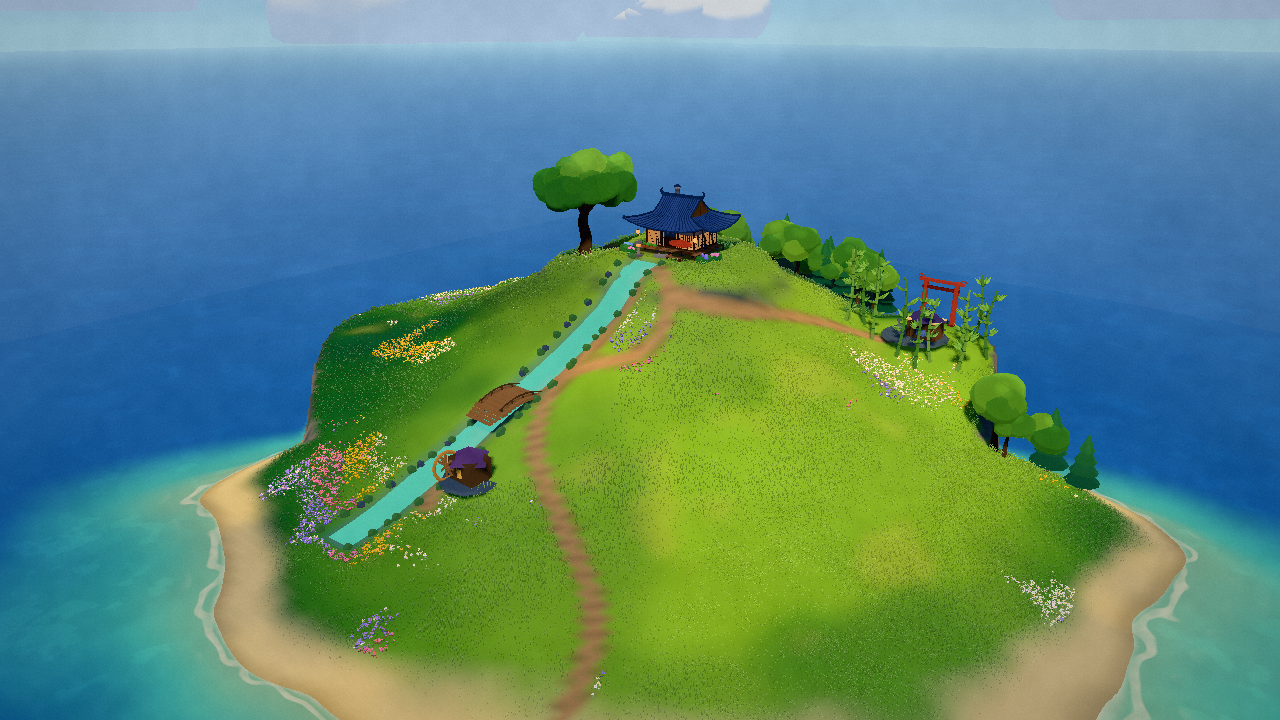
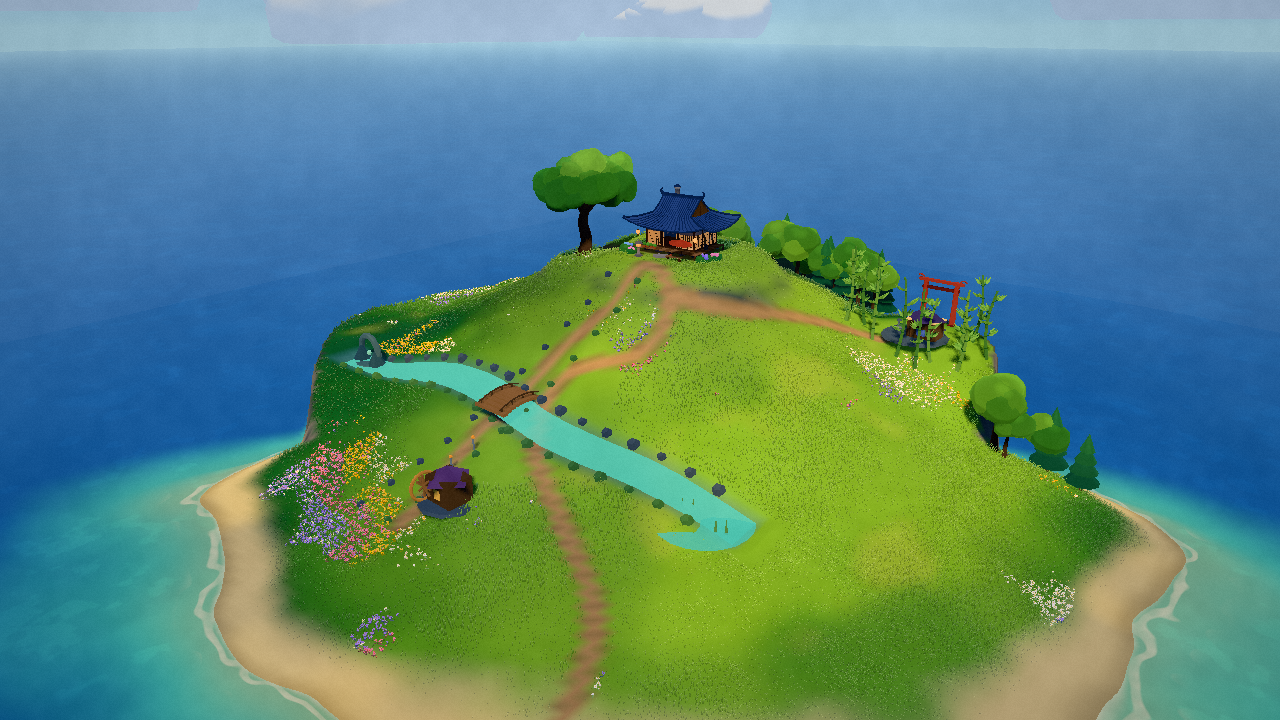
fix: make stream topology and bridge destination coherent

diff --git a/src/models/places.ts b/src/models/places.ts
@@ -178,10 +178,11 @@ function bridgeMesh(): THREE.Group {
 
 function streamRibbon(x: number, z: number, length: number, width: number): THREE.Mesh {
   const pts: [number, number][] = [];
-  const n = 18;
+  const n = 22;
   for (let i = 0; i < n; i++) {
-    const t = i / (n - 1), zz = z - length * 0.5 + t * length;
-    pts.push([x + Math.sin(t * Math.PI * 2.4) * 0.8, zz]);
+    const t = i / (n - 1), xx = x - length * 0.5 + t * length;
+    const zz = 24 + Math.sin((xx / 16) * Math.PI * 0.8) * 1.1;
+    pts.push([xx, zz]);
   }
   const water = ribbon(pts, width, 0.1, MAT.water);
   water.material = new THREE.MeshBasicMaterial({ color: '#70d6cf', transparent: true, opacity: 0.78, depthWrite: false, side: THREE.DoubleSide });
@@ -190,41 +191,61 @@ function streamRibbon(x: number, z: number, length: number, width: number): THRE
 
 export function createMoonbridge(): PlaceLandmark {
   const g = new THREE.Group(); const x = 2, z = 24, y = heightAt(x, z);
-  // A continuous ribbon leaves both bridge ends and bends toward visible banks.
-  g.add(streamRibbon(x, z, 46, 3.4));
-  // Two dark wet banks and thin moving-looking highlights give the water a channel, not a blue plane.
-  const bankLine = (side: number) => { const pts: [number, number][] = []; for (let i = 0; i < 18; i++) { const t = i / 17, zz = z - 23 + t * 46; pts.push([x + Math.sin((zz / 23) * Math.PI * 1.2) * 0.8 + side * 2.0, zz]); } return pts; };
-  g.add(ribbon(bankLine(-1), 0.72, 0.05, '#6f6958'));
-  g.add(ribbon(bankLine(1), 0.72, 0.05, '#6f6958'));
-  for (const off of [-0.75, 0.65]) { const pts: [number, number][] = []; for (let i = 0; i < 10; i++) { const t = i / 9; const zz = z - 20 + t * 40; pts.push([x + Math.sin((zz / 23) * Math.PI * 1.2) * 0.8 + off, zz]); } g.add(ribbon(pts, 0.045, 0.14, '#c3f0d3')); }
-  // banks: dark damp soil just outside water, then mossy stones sampled to the terrain
-  const bankPts: [number, number][] = [];
-  for (let i = 0; i < 18; i++) { const t = i / 17, zz = z - 23 + t * 46; bankPts.push([x - 2.5, zz]); bankPts.push([x + 2.5, zz]); }
-  for (const [bx, bz] of bankPts) put(g, new THREE.DodecahedronGeometry(0.52, 0), m(MAT.moss, 0.38), bx, heightAt(bx, bz) + 0.02, bz, 1.1);
-  const bridge = bridgeMesh(); bridge.position.set(x, y, z); g.add(bridge);
-  const rampMat = m('#a97a4f', 0.3);
-  for (const side of [-1, 1]) for (let i = 0; i < 4; i++) {
-    const t = i / 3, rz = z + side * (3.35 + i * 0.48), ry = y + 0.76 - t * 0.58;
-    put(g, new THREE.BoxGeometry(4.7 - i * 0.25, 0.18, 0.46), rampMat, x, ry, rz);
+  // East-west stream: it crosses the north-south footpath, so the bridge has a real purpose.
+  g.add(streamRibbon(x, z, 62, 3.6));
+  const bankLine = (side: number) => {
+    const pts: [number, number][] = [];
+    for (let i = 0; i < 22; i++) { const t = i / 21, xx = -29 + t * 62; pts.push([xx, 24 + Math.sin((xx / 16) * Math.PI * 0.8) * 1.1 + side * 2.0]); }
+    return pts;
+  };
+  g.add(ribbon(bankLine(-1), 0.75, 0.05, '#6f6958'));
+  g.add(ribbon(bankLine(1), 0.75, 0.05, '#6f6958'));
+  for (const off of [-0.75, 0.65]) {
+    const pts: [number, number][] = [];
+    for (let i = 0; i < 16; i++) { const t = i / 15, xx = -26 + t * 56; pts.push([xx, 24 + Math.sin((xx / 16) * Math.PI * 0.8) * 1.1 + off]); }
+    g.add(ribbon(pts, 0.045, 0.14, '#c3f0d3'));
   }
-  // path ribbons land on both ends and continue to the existing meadow paths
-  g.add(ribbon([[x, z - 14], [x - 0.3, z - 9], [x, z - 4]], 2.6, 0.06, '#a78561'));
-  g.add(ribbon([[x, z + 4], [x + 1.6, z + 10], [x + 5, z + 15]], 2.6, 0.06, '#a78561'));
+  // Stone bank armor, sampled to each bank's actual terrain.
+  for (const side of [-1, 1]) for (let i = 0; i < 18; i++) {
+    const xx = -28 + i * 3.3, zz = 24 + Math.sin((xx / 16) * Math.PI * 0.8) * 1.1 + side * 2.5;
+    put(g, new THREE.DodecahedronGeometry(0.5 + (i % 3) * 0.1, 0), m(side > 0 ? MAT.moss : MAT.stoneDark, 0.35), xx, heightAt(xx, zz) + 0.04, zz, 1.05);
+  }
+  // Bridge crosses the stream north-south.
+  const bridge = bridgeMesh(); bridge.position.set(x, y, z); g.add(bridge);
+  // Clear approaches south and north, with a continuation to the mill.
+  g.add(ribbon([[x, z - 16], [x, z - 10], [x, z - 4]], 2.8, 0.06, '#a78561'));
+  g.add(ribbon([[x, z + 4], [x + 0.4, z + 10], [x + 1.0, z + 18]], 2.8, 0.06, '#a78561'));
   for (const side of [-1, 1]) for (let i = -5; i <= 5; i++) {
     const rz = z + i * 3.7, rx = x + side * 2.4;
     put(g, new THREE.DodecahedronGeometry(0.46, 0), m(side > 0 ? MAT.moss : MAT.stoneDark, 0.35), rx, heightAt(rx, rz) + 0.04, rz, 1.05);
   }
-  // A small mill shed beyond the north landing gives the bridge a reason to exist.
-  const mill = new THREE.Group(); mill.position.set(x + 4.8, heightAt(x + 4.8, z + 10) + 0.12, z + 10);
-  put(g, new THREE.CylinderGeometry(3.0, 3.3, 0.22, 10), m(MAT.stoneDark, 0.25), x + 4.8, heightAt(x + 4.8, z + 10) + 0.11, z + 10);
-  put(mill, new THREE.BoxGeometry(3.4, 2.5, 2.8), m(MAT.bridgeDark, 0.3), 0, 1.25, 0);
-  put(mill, new THREE.ConeGeometry(2.5, 1.5, 4), m('#74566f', 0.35), 0, 2.95, 0);
-  put(mill, new THREE.BoxGeometry(0.8, 1.0, 0.08), m('#d9a85e', 0.5), 0, 0.9, 1.14);
-  put(mill, new THREE.CylinderGeometry(0.09, 0.09, 1.8, 8), m('#e6bf73', 0.45), -1.35, 1.2, 1.14);
-  put(mill, new THREE.SphereGeometry(0.18, 10, 8), m('#ffb35c', 0.6), -1.35, 2.15, 1.14);
-  const wheel = new THREE.Group(); wheel.position.set(-1.9, 1.45, 1.55);
+  // Source end: a spring grotto at the west bank, with a visible rock arch and pool.
+  const spring = new THREE.Group(); spring.position.set(-27, heightAt(-27, 24) + 0.1, 24);
+  put(spring, new THREE.CylinderGeometry(2.0, 2.4, 0.22, 10), m('#5b7770', 0.3), 0, 0.11, 0);
+  put(spring, new THREE.TorusGeometry(2.0, 0.42, 7, 12), m('#62786f', 0.35), 0, 1.7, 0);
+  put(spring, new THREE.ConeGeometry(1.3, 2.4, 7), m('#4b625d', 0.35), -1.7, 1.2, 0.2);
+  put(spring, new THREE.ConeGeometry(1.3, 2.4, 7), m('#4b625d', 0.35), 1.7, 1.2, 0.2);
+  put(spring, new THREE.SphereGeometry(0.32, 10, 8), m('#9fe2cf', 0.6), 0, 1.4, 0.15);
+  g.add(spring);
+  // Outlet end: a small pond with reeds and a footpath meeting the water.
+  const pond = new THREE.Group(); pond.position.set(29, heightAt(29, 24) + 0.05, 24);
+  const pondMat = new THREE.MeshBasicMaterial({ color: '#65c6c0', transparent: true, opacity: 0.8, side: THREE.DoubleSide });
+  const pondMesh = new THREE.Mesh(new THREE.CircleGeometry(5.0, 20), pondMat); pondMesh.rotation.x = -Math.PI / 2; pond.add(pondMesh);
+  for (const sx of [-2.8, -1.8, 1.9, 2.8]) { const r = new THREE.Mesh(new THREE.ConeGeometry(0.18, 1.7, 5), m('#719d60', 0.4)); r.position.set(sx, 0.7, Math.sin(sx) * 0.7); pond.add(r); }
+  g.add(pond);
+  // A pair of warm guide lanterns makes the north continuation legible even through the slope.
+  for (const zz of [z + 7, z + 10]) {
+    put(g, new THREE.CylinderGeometry(0.09, 0.12, 1.5, 7), m(MAT.stone, 0.3), x + 1.6, heightAt(x + 1.6, zz) + 0.75, zz);
+    put(g, new THREE.SphereGeometry(0.19, 8, 6), m('#ffb45e', 0.65), x + 1.6, heightAt(x + 1.6, zz) + 1.55, zz);
+  }
+  // Mill is beyond the north landing, so crossing and stream endpoint have different directions.
+  const mill = new THREE.Group(); mill.position.set(x + 5.2, heightAt(x + 5.2, z + 13) + 0.12, z + 13);
+  put(g, new THREE.CylinderGeometry(3.0, 3.3, 0.22, 10), m(MAT.stoneDark, 0.25), mill.position.x, mill.position.y - 0.1, mill.position.z);
+  put(mill, new THREE.BoxGeometry(3.6, 2.7, 3.0), m(MAT.bridgeDark, 0.3), 0, 1.35, 0);
+  put(mill, new THREE.ConeGeometry(2.6, 1.55, 4), m('#74566f', 0.35), 0, 3.05, 0);
+  put(mill, new THREE.BoxGeometry(0.9, 1.05, 0.08), m('#f0c36b', 0.55), 0, 1.15, 1.53);
+  const wheel = new THREE.Group(); wheel.position.set(-2.0, 1.45, 1.6);
   const disc = new THREE.Mesh(new THREE.TorusGeometry(1.5, 0.18, 7, 18), m('#d19b59', 0.4)); disc.rotation.y = Math.PI / 2; wheel.add(disc);
-  put(mill, new THREE.BoxGeometry(0.7, 1.0, 0.08), m('#f0c36b', 0.55), 0, 1.15, 1.43);
   for (let i = 0; i < 8; i++) { const paddle = put(wheel, new THREE.BoxGeometry(0.18, 2.45, 0.22), m(MAT.bridge, 0.25), 0, 0, 0); paddle.rotation.z = i * Math.PI / 4; }
   mill.add(wheel); g.add(mill);
   return { group: g, focus: new THREE.Vector3(x, y + 1.6, z), name: 'Moonbridge Stream' };

diff --git a/src/world/terrain.ts b/src/world/terrain.ts
@@ -24,7 +24,7 @@ const PATH_POINTS = [
   [36, 52], [30, 40], [19, 33], [9, 27], [5, 19], [11, 12], [9, 5], [3, 2],
 ].map(([x, z]) => new THREE.Vector3(x, 0, z));
 // Discovery paths: the teahouse junction branches to the stream and bamboo shrine.
-const BRIDGE_PATH_POINTS = [[3, 2], [5, 9], [5, 16], [2, 24], [2, 30], [4, 36], [6, 39]].map(([x, z]) => new THREE.Vector3(x, 0, z));
+const BRIDGE_PATH_POINTS = [[3, 2], [3, 9], [2, 16], [2, 24], [2, 30], [4, 36], [6, 42]].map(([x, z]) => new THREE.Vector3(x, 0, z));
 const SHRINE_PATH_POINTS = [[9, 5], [15, 1], [21, -8], [30, -20]].map(([x, z]) => new THREE.Vector3(x, 0, z));
 // Side path to the cliff lookout.
 const LOOKOUT_POINTS = [
@@ -46,8 +46,8 @@ export const LOOKOUT_PATH = sampleCurve(LOOKOUT_POINTS, 80);
 export const BRIDGE_PATH = sampleCurve(BRIDGE_PATH_POINTS, 130);
 export const SHRINE_PATH = sampleCurve(SHRINE_PATH_POINTS, 150);
 
-function streamCenter(z: number): number { return 2 + Math.sin((z / 23) * Math.PI * 1.2) * 0.8; }
-function streamDistance(x: number, z: number): number { return Math.abs(x - streamCenter(z)); }
+function streamCenterZ(x: number): number { return 24 + Math.sin((x / 16) * Math.PI * 0.8) * 1.1; }
+function streamDistance(x: number, z: number): number { return Math.abs(z - streamCenterZ(x)); }
 
 function distToPolyline(poly: Float32Array, x: number, z: number): number {
   let best = 1e9;
@@ -129,7 +129,7 @@ function bake() {
       pathDist[idx(i, j)] = pd;
       h -= 0.12 * smoothstep(1.6, 0.4, pd);
       // Carve a shallow, winding stream bed from the upper mill to the low meadow.
-      if (z > 0 && z < 48) h -= 0.72 * smoothstep(3.6, 0.35, streamDistance(x, z));
+      if (x > -32 && x < 34) h -= 0.72 * smoothstep(3.6, 0.35, streamDistance(x, z));
       heights[idx(i, j)] = h;
     }
   }
@@ -223,7 +223,7 @@ export function surfaceAt(x: number, z: number): { color: THREE.Color; kind: Sur
 
   // Stream bed: water colour and no grass inside the carved channel.
   const streamD = streamDistance(x, z);
-  if (z > 0 && z < 48 && streamD < 3.4) {
+  if (x > -32 && x < 34 && streamD < 3.4) {
     const waterT = smoothstep(3.4, 1.25, streamD);
     c.lerp(C.seabed, waterT * 0.7);
     grassiness *= 1 - waterT;

diff --git a/src/main.ts b/src/main.ts
@@ -241,7 +241,8 @@ const presets: Record<string, [THREE.Vector3, THREE.Vector3]> = {
   tip: [house.group.localToWorld(new THREE.Vector3(5.2, 3.6, 11.5)), house.group.localToWorld(new THREE.Vector3(5.6, 4.1, 4.6))],
   // high reveal camera: the shrine sits on the eastern shoulder; stay above the intervening ridge
   shrine: [new THREE.Vector3(shrine.focus.x + 10, shrine.focus.y + 6.5, shrine.focus.z - 17), new THREE.Vector3(shrine.focus.x + 0.4, shrine.focus.y + 2.4, shrine.focus.z - 1.2)],
-  bridge: [new THREE.Vector3(bridge.focus.x - 15, bridge.focus.y + 9, bridge.focus.z - 15), new THREE.Vector3(bridge.focus.x + 3.5, bridge.focus.y + 1.8, bridge.focus.z + 10)],
+  bridge: [new THREE.Vector3(bridge.focus.x - 13, bridge.focus.y + 8, bridge.focus.z - 16), new THREE.Vector3(bridge.focus.x + 3.5, bridge.focus.y + 1.8, bridge.focus.z + 7)],
+  bridgeMap: [new THREE.Vector3(bridge.focus.x, bridge.focus.y + 58, bridge.focus.z + 2), new THREE.Vector3(bridge.focus.x, bridge.focus.y, bridge.focus.z)],
 };
 HERO_TREE.y = heightAt(HERO_TREE.x, HERO_TREE.z);
 presets.tree = [new THREE.Vector3(HERO_TREE.x + 13, HERO_TREE.y + 3, HERO_TREE.z + 17), new THREE.Vector3(HERO_TREE.x - 4, HERO_TREE.y + 5.5, HERO_TREE.z - 2)];

diff --git a/src/world/grass.ts b/src/world/grass.ts
@@ -50,11 +50,10 @@ export function createGrass(count = 140000, radius = 78) {
     const surf = surfaceAt(x, z);
     // authored clearings keep the shrine/bridge silhouettes readable from their reveal shots
     const shrineClear = Math.hypot(x - 30, z + 20) < 9;
-    const bridgeClear = Math.hypot(x - 2, z - 24) < 12;
+    const bridgeClear = Math.hypot(x - 2, z - 24) < 12 || (x > -1 && x < 8 && z > 27 && z < 40);
     // reserve the stream's full visual corridor; the banks will be authored geometry
-    const streamZ = z - 24;
-    const streamCentre = 2 + Math.sin((streamZ / 23) * Math.PI * 1.2) * 0.8;
-    const streamClear = z > 0 && z < 48 && Math.abs(x - streamCentre) < 3.1;
+    const streamCentre = 24 + Math.sin((x / 16) * Math.PI * 0.8) * 1.1;
+    const streamClear = x > -34 && x < 36 && Math.abs(z - streamCentre) < 3.1;
     if (shrineClear || bridgeClear || streamClear) continue;
     // clumpy density: meadows have thick and thin patches
     const clump = fbm2(x * 0.15 + 5, z * 0.15 - 3, 3);

diff --git a/src/world/life.ts b/src/world/life.ts
@@ -55,8 +55,8 @@ export function createFlowers(count: number) {
     const x = (rand() - 0.5) * 150, z = (rand() - 0.5) * 150;
     const s = surfaceAt(x, z);
     if (s.kind !== 'grass' || s.grassiness < 0.6) continue;
-    const bridgeClear = Math.hypot(x - 2, z - 24) < 12;
-    const streamClear = z > 0 && z < 48 && Math.abs(x - (2 + Math.sin((z / 23) * Math.PI * 1.2) * 0.8)) < 3.2;
+    const bridgeClear = Math.hypot(x - 2, z - 24) < 12 || (x > -1 && x < 8 && z > 27 && z < 40);
+    const streamClear = x > -34 && x < 36 && Math.abs(z - (24 + Math.sin((x / 16) * Math.PI * 0.8) * 1.1)) < 3.2;
     if (bridgeClear || streamClear) continue;
     // clumps: low-frequency noise picks meadow patches; edges of path and house get extra
     const clump = fbm2(x * 0.09 + 31, z * 0.09 - 17, 3);
